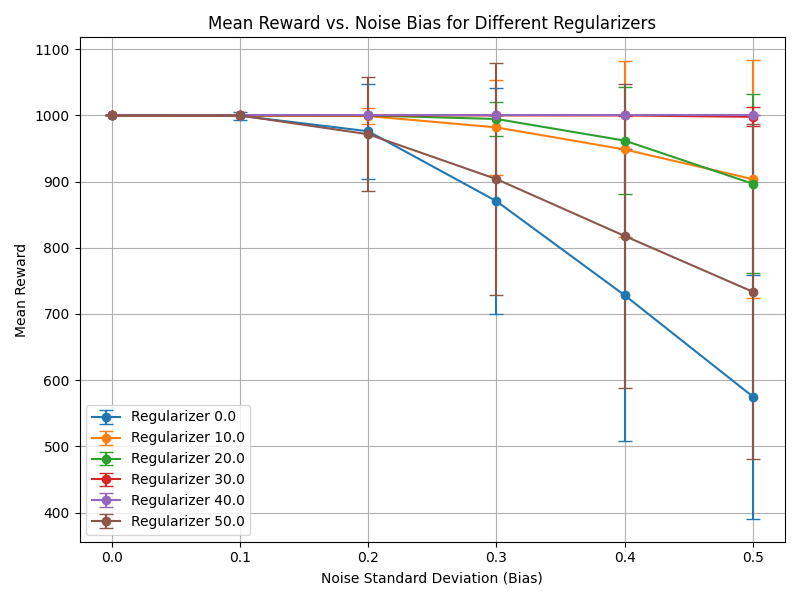
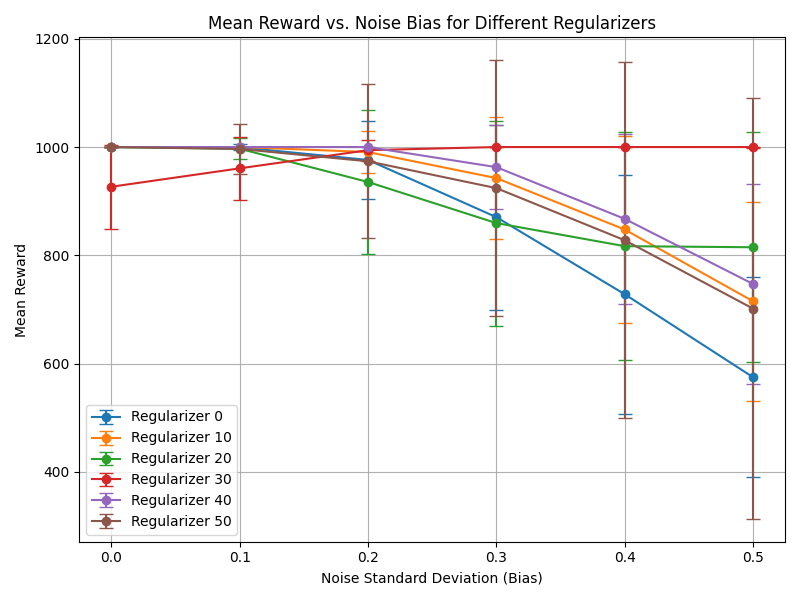
add dimension normalization

diff --git a/envs/ball_plate.py b/envs/ball_plate.py
@@ -42,9 +42,9 @@ class BallPlate(Env):
     def __init__(
         self,
         desensitization: float = 0.0,
-        plate_radius_range: Tuple[float, float] = (5, 5.000001),
-        ball_mass_range: Tuple[float, float] = (0.1, 0.5),
-        plate_mass_range: Tuple[float, float] = (0.5, 1),
+        plate_radius_range: Tuple[float, float] = (2.5, 2.500000001),
+        ball_mass_range: Tuple[float, float] = (0.1, 0.2),
+        plate_mass_range: Tuple[float, float] = (0.1, 1),
         friction_ball_range: Tuple[float, float] = (0.03, 0.07),
         friction_plate_range: Tuple[float, float] = (0.08, 0.12),
         augment: bool = True,
@@ -243,8 +243,9 @@ class BallPlate(Env):
             # Compute the Jacobian of the dynamics function.
             jacobian_fn = jacobian(dynamics_fn, has_aux=True)
             jac, new_state = jacobian_fn(params)
-            # jax.debug.print("Jacobian: {}", jac)
-            penalty = jnp.sum(jnp.concatenate(jac) ** 2) * self.desensitization
+            jac = jnp.concatenate(jac)
+            d = jac.shape[0]
+            penalty = jnp.sum(jac ** 2) / d * self.desensitization
         else:
             # If no regularization, just compute the new state.
             new_state = dynamics_fn(params)[0]

diff --git a/envs/cartpole.py b/envs/cartpole.py
@@ -142,15 +142,17 @@ class CartPole(Env):
             return new_state, new_state
         
         penalty = 0.0
+        params = (state.length, state.masspole)
         if self.desensitization > 1e-7:
             # Compute the Jacobian of the dynamics function.
             jacobian_fn = jacobian(dynamics_fn, has_aux=True)
-            jac, new_state = jacobian_fn((state.length, state.masspole))
-            # jax.debug.print("Jacobian: {}", jac)
-            penalty = jnp.sum(jnp.concatenate(jac) ** 2) * self.desensitization
+            jac, new_state = jacobian_fn(params)
+            jac = jnp.concatenate(jac)
+            d = jac.shape[0]
+            penalty = jnp.sum(jac ** 2) / d * self.desensitization
         else:
             # If no regularization, just compute the new state.
-            new_state = dynamics_fn((state.length, state.masspole))[0]
+            new_state = dynamics_fn(params)[0]
 
 
         # Construct new state
